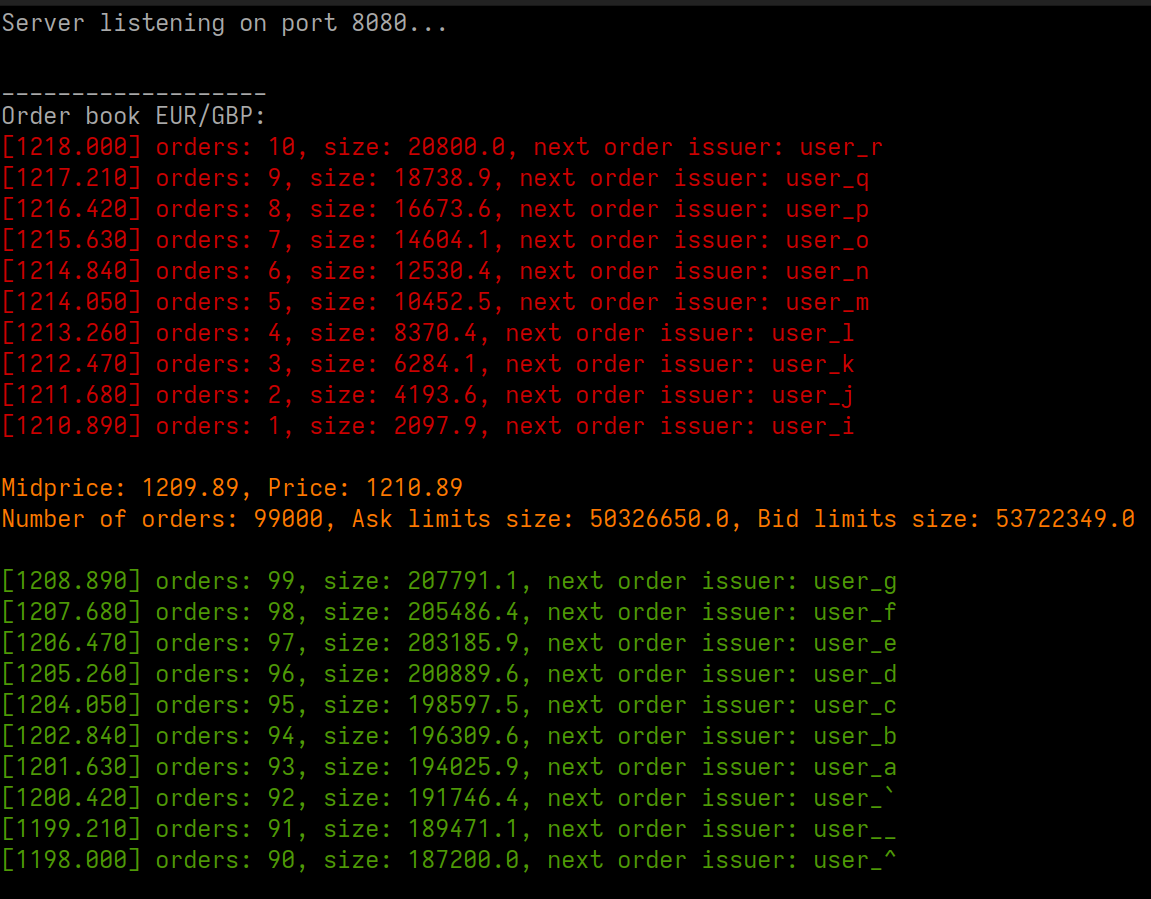
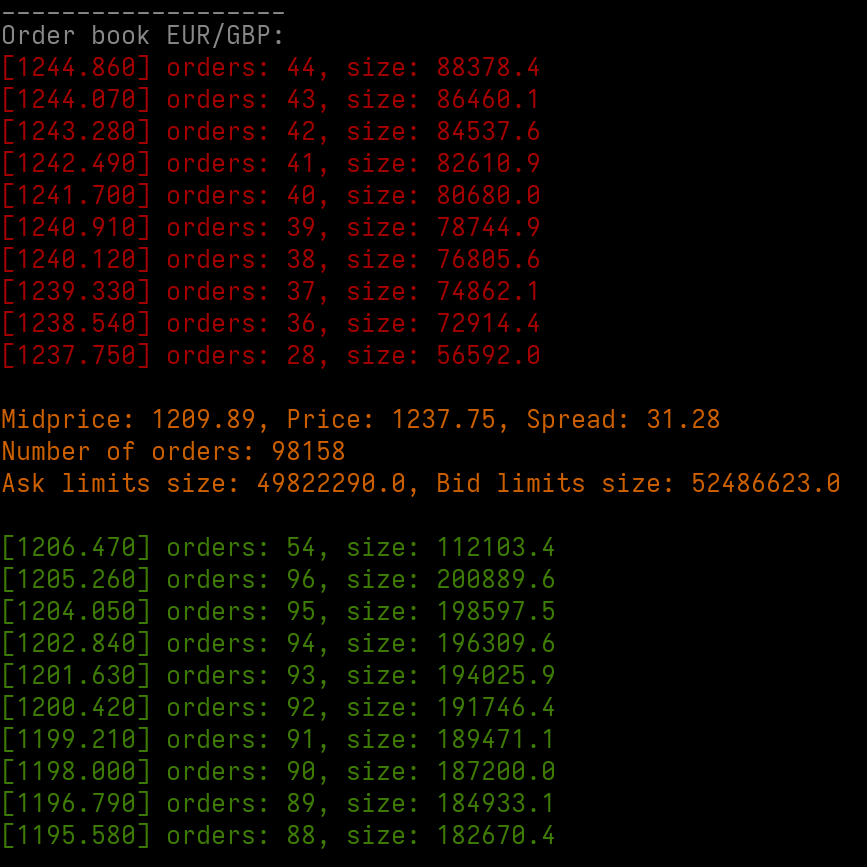
changed ob output format, readme & main func

Changed region(s): [[0.0, 0.0, 1.0, 0.5917], [0.0, 0.6228, 0.7785, 0.9965]]

diff --git a/main.go b/main.go
@@ -2,6 +2,7 @@ package main
 
 import (
 	"fmt"
+	"math/rand"
 	"os"
 	"os/exec"
 	"time"
@@ -16,27 +17,29 @@ func main() {
 		Example code where we open an order book with base currency
 		EUR and quote currency GBP and then launch the server.
 	*/
-	ex, addr, port := exchange.NewExchange(), "127.0.0.1", 8080
-	ex.NewOrderBook("EUR", "GBP")
-	s := server.NewServer(addr, port, ex)
+	exchange, address, port := exchange.NewExchange(), "127.0.0.1", 8080
+	exchange.NewOrderBook("EUR", "GBP")
+	server := server.NewServer(address, port, exchange)
+
+	buy, sell := order.Buy, order.Sell
 
 	for i, f := 0, 0.1; i < 1000; i++ {
 		for y := 0; y < i%100; y++ {
-			ex.PlaceOrder("EUR", "GBP", order.Buy, float64(i)+f, f*10.0, "user_"+string(i%128))
+			exchange.PlaceOrder("EUR", "GBP", buy, float64(i)+f, f*10.0, "user_"+string(i%128))
 		}
 		f += 0.21
 	}
 
 	for i, f := 2000, 0.1; i > 1000; i-- {
 		for y := 0; y < i%100; y++ {
-			ex.PlaceOrder("EUR", "GBP", order.Sell, float64(i)+f, f*10.0, "user_"+string(i%128))
+			exchange.PlaceOrder("EUR", "GBP", sell, float64(i)+f, f*10.0, "user_"+string(i%128))
 		}
 		f += 0.21
 	}
 
-	ex.ExecuteOrder("EUR", "GBP", order.Buy, 1, "maxime")
+	exchange.ExecuteOrder("EUR", "GBP", buy, 1, "maxime")
 
-	go s.Run()
+	go server.Run()
 
 	for {
 		cmd := exec.Command("clear")
@@ -44,10 +47,22 @@ func main() {
 		cmd.Run()
 
 		output := fmt.Sprintf("Server listening on port %d...\n\n", port)
-		for _, v := range ex.OrderBooks {
+		for _, v := range exchange.OrderBooks {
 			output += fmt.Sprintln(v)
 		}
 		fmt.Println(output)
+
+		n := rand.Intn(2)
+		var orderType order.OrderType
+		if n == 0 {
+			orderType = buy
+		} else {
+			orderType = sell
+		}
+
+		exchange.ExecuteOrder("EUR", "GBP", orderType, float64(rand.Intn(200000)), "maxime")
+
 		time.Sleep(time.Second / 2)
+
 	}
 }

diff --git a/orderbook/orderbook.go b/orderbook/orderbook.go
@@ -219,34 +219,40 @@ func (ob *OrderBook) updateMidPrice() {
 }
 
 func (ob OrderBook) String() string {
+	spread := ob.AskLimits[0].Price - ob.BidLimits[0].Price
+
 	ret := fmt.Sprintf("___________________\nOrder book %s/%s:\n",
 		ob.base, ob.quote)
+
 	var lim int
 	if len(ob.AskLimits) <= 10 {
 		lim = len(ob.AskLimits)
 	} else {
 		lim = 10
 	}
+
 	for i := lim - 1; i >= 0; i-- {
-		ret += fmt.Sprintf("\033[31m[%.3f] orders: %d, size: %.1f, next order"+
-			" issuer: %s\033[0m\n", ob.AskLimits[i].Price,
-			ob.AskLimits[i].OrdersCount(), ob.AskLimits[i].Size,
-			ob.AskLimits[i].GetFirstOrder().Issuer)
+		ret += fmt.Sprintf("\033[31m[%.3f] orders: %d, size: %.1f"+
+			"\033[0m\n", ob.AskLimits[i].Price,
+			ob.AskLimits[i].OrdersCount(), ob.AskLimits[i].Size)
 	}
-	ret += fmt.Sprintf("\n\033[0;34mMidprice: %.2f, Price: %.2f\nNumber of"+
-		" orders: %d, Ask limits size: %.1f, Bid limits size: %.1f\033[0m\n\n",
-		ob.MidPrice, ob.Price, ob.NumberOfOrders, ob.AskLimitsSize,
+
+	ret += fmt.Sprintf("\n\033[0;34mMidprice: %.2f, Price: %.2f, Spread: %.2f\nNumber of"+
+		" orders: %d\nAsk limits size: %.1f, Bid limits size: %.1f\033[0m\n\n",
+		ob.MidPrice, ob.Price, spread, ob.NumberOfOrders, ob.AskLimitsSize,
 		ob.BidLimitsSize)
+
 	if len(ob.BidLimits) <= 10 {
 		lim = len(ob.BidLimits)
 	} else {
 		lim = 10
 	}
+
 	for i := 0; i < lim; i++ {
-		ret += fmt.Sprintf("\033[32m[%.3f] orders: %d, size: %.1f, next order"+
-			" issuer: %s\033[0m\n", ob.BidLimits[i].Price,
-			ob.BidLimits[i].OrdersCount(), ob.BidLimits[i].Size,
-			ob.BidLimits[i].GetFirstOrder().Issuer)
+		ret += fmt.Sprintf("\033[32m[%.3f] orders: %d, size: %.1f"+
+			"\033[0m\n", ob.BidLimits[i].Price,
+			ob.BidLimits[i].OrdersCount(), ob.BidLimits[i].Size)
 	}
+
 	return ret
 }

diff --git a/README.md b/README.md
@@ -1,48 +1,11 @@
 # Exchange
-A market exchange simulation that can be called through a JSON API.
+Market exchange simulation.
 
-<img src="sc.png" alt="Screenshot" width="800" height="">
+<img src="sc.png" alt="Screenshot" width="800">
 
-
-It is made from scratch, it does not not rely any third-party dependency. \
+It is made from scratch, it does not not rely any third-party dependency except Go's stdlib. \
 The matching engine implements the Price/Time (First In First Out) algorithm. 
 
 For now, it is only possible to place the two "basic" types of orders (market and limit).\
 Canceling orders is not fully implemented yet, at least not efficiently.\
-Also, this project will be rewritten in a much cleaner way and with better error handling when I'll have some time.
-
-Here are the different API endpoints you can call once the server is launched,\
-with the method you must use and the expected body JSON fields:
-
-- `/orderbooks`: returns the list of all open orderbooks
-- - GET
-- `/placeorder`: places a limit order and returns its ID
-- - POST
-- - Body:
-- - - "base": string (e.g "USD")
-- - - "quote": string (e.g "EUR")
-- - - "type": string ("BUY" | "SELL")
-- - - "quantity": float
-- - - "issuer": string (e.g "Maxime")
-- - - "price": float 
-- `/cancelorder`: cancels a limit order if it has not already been executed
-- - POST
-- - Body:
-- - - "base": string 
-- - - "quote": string
-- - - "type": string
-- - - "price": float 
-- - - "order_id": int
-- `/executeorder`: executes a market order
-- - POST
-- - Body:
-- - - "base": string
-- - - "quote": string 
-- - - "type": string 
-- - - "quantity": float
-- - - "issuer": string
-- `/orderbookdata`: returns information about the order book
-- - GET
-- - Body:
-- - - "base": string
-- - - "quote": string 
+This project should be rewritten in a much cleaner way and with better error handling when I'll have some time.
